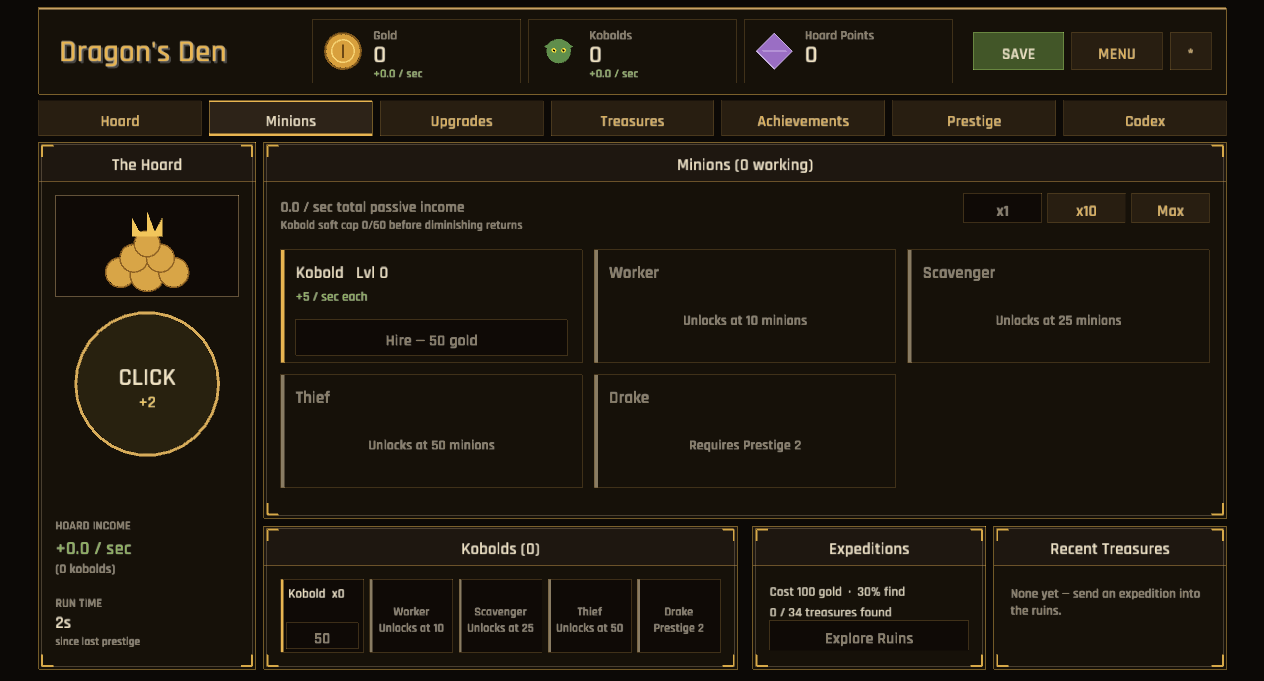
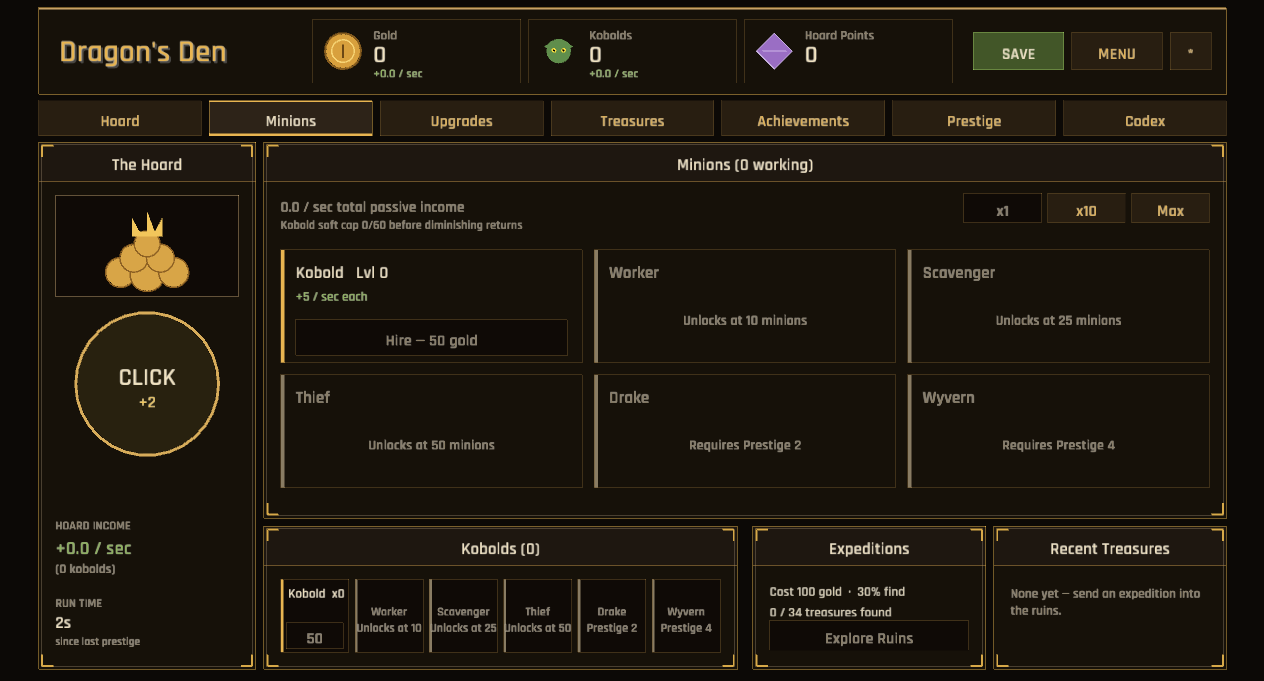
Content depth: add the Wyvern deep-prestige minion tier
Deep-prestige players had nothing new to hire past Drake (prestige 2). Add
one more tier so the hire ladder keeps climbing.

- Wyvern: base_rate 40k, base_cost 600M, unlock_at 100, prestige_required 4
  — continues the ~6.7x rate / ~24x cost geometric curve past Drake.
- One tier, not two: keeps the 3-column Minions grid at two rows and the
  compact bottom-bar hire strip legible (six cards). Verified both — no
  overflow, "Wyvern Requires Prestige 4" reads cleanly.

Extra minion tiers add via extra_minion_income, which the balance sim never
exercises, so the guards are untouched. Validation: cargo test (48), clippy,
fmt all clean.

Changed region(s): [[0.2468, 0.8634, 0.5554, 0.9559], [0.7097, 0.5551, 0.7714, 0.7093], [0.8022, 0.6476, 0.8948, 0.6784]]

diff --git a/ENGAGEMENT_REVIEW.md b/ENGAGEMENT_REVIEW.md
@@ -86,8 +86,15 @@ ways to make it entertaining. All numbers are the ones actually shipping in
 > `minion_efficiency` dragon), Astral Leviathan (prestige 5) and Worldeater
 > Wyrm (trillion gold) — the last two the first `all_gold` codex bonuses.
 > Dragons unlock via `check_unlocks`, which the balance sim never runs, so
-> guards are untouched. Next content-depth targets: a 5th/6th minion tier for
-> deep prestige, more prestige-tree tiers per branch, more run-upgrade lines.
+> guards are untouched.
+>
+> **Content depth — minion tiers 5 → 6:** added the **Wyvern** tier (base_rate
+> 40k, unlock_at 100, prestige 4) past Drake, a deep-prestige hire target that
+> continues the ~6.7× geometric rate curve. One tier (not two) to keep the
+> 3-col Minions grid at two rows and the compact bottom-bar strip legible —
+> both verified. Extra minion tiers aren't in the balance sim, so guards are
+> untouched. Next content-depth targets: more prestige-tree tiers per branch,
+> more run-upgrade lines, deeper wall cliffs.
 
 ---
 
